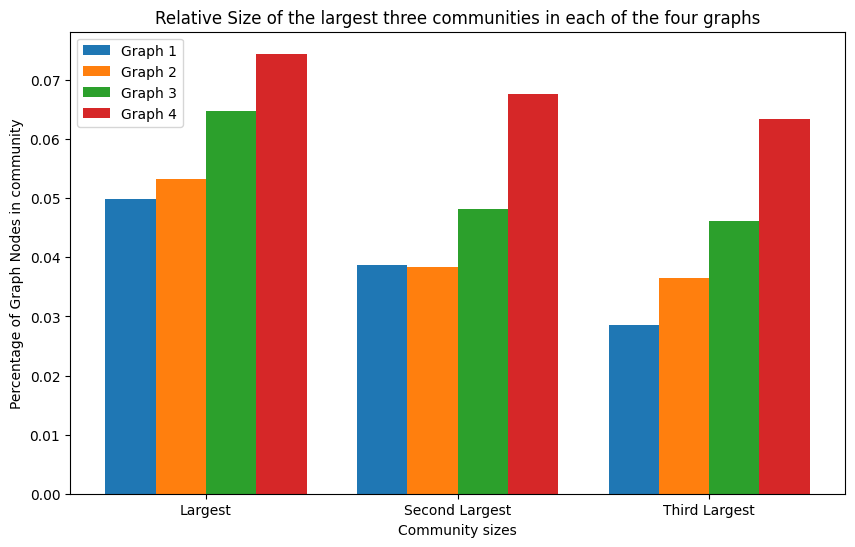
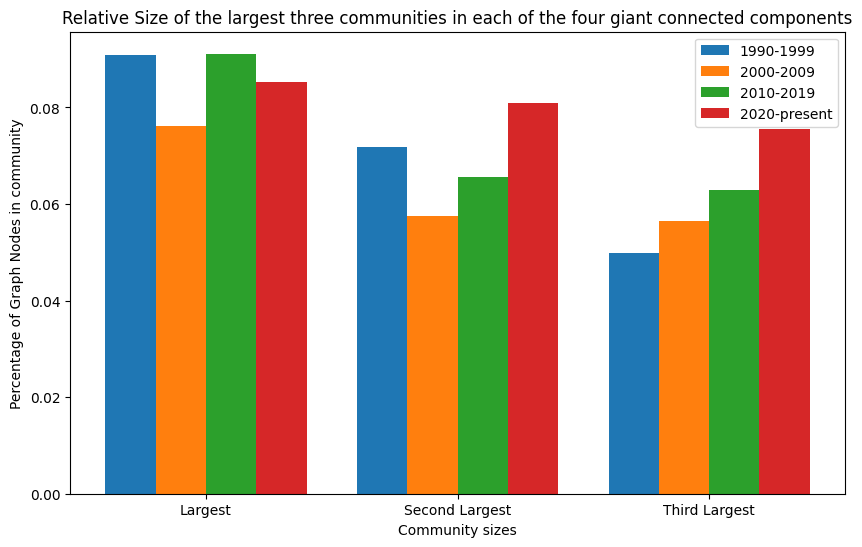
Feat: alt

diff --git a/content/text-analysis.md b/content/text-analysis.md
@@ -3,10 +3,39 @@ title: Text analysis
 prev: network-analysis
 ---
 
-Lorem ipsum dolor sit amet, consectetur adipiscing elit. In nulla tellus, tempus sed lobortis quis, venenatis ac ante. Maecenas accumsan augue ultricies metus hendrerit, in ultrices urna fringilla. Suspendisse lobortis egestas magna, sit amet fermentum ligula tincidunt vitae. Suspendisse cursus non dui a vulputate. Cras vestibulum vulputate enim eu placerat. Ut scelerisque semper justo sit amet auctor. Aliquam sit amet iaculis tortor.
+With the graphs and communities created and analysed, we can move on to analysing the abstracts of each community. We will do this by using the [TF-IDF](https://en.wikipedia.org/wiki/Tf%E2%80%93idf) method to find the most important words in each community. To use this method we need all abstracts needs to be tokenised. The tokenised is based on the NLTK word_tokenizer, which essentially just splits the document based on white space. We can then import a dicitionary of stop words, and define our own filter on characters to further filter the tokens. This way we will get a more indicative list of words used in each abstract. In addition to this, the NLTK english_words corpus is used to filter out words that are not in the english language.
 
-> Nulla in justo hendrerit, tincidunt mauris et, porta est. Donec in leo vitae est ultrices dapibus id nec tortor. Maecenas ut ipsum eu nisl cursus facilisis scelerisque eu ex. Aliquam euismod elementum libero, at vehicula ipsum.
+As mentioned, the analysis is based on the Term Frequency - Inverse Document Frequency approach. Let's recall what the TF-IDF means.
+Term Frequence Inverse Document Frequency, is a way to quantify words' explained variance across documents. Term Frequency is simply how often a term occurs in a document. It 'explains' the weight of the word in term of a document. Inverse Document Frequency is the logarithm to the number of documents the term occurs in, out of all documents. The TF-IDF is the product of the TF and IDF, and has the following form:
 
-Nam commodo lorem quis tortor euismod, ut ultrices orci aliquet. Sed eget dui nec sem ullamcorper convallis id nec ante. Aliquam ultricies a massa quis semper. Donec suscipit augue ut sagittis hendrerit. Aliquam erat volutpat. Proin aliquet maximus nibh, id aliquet justo maximus at. Sed accumsan ante id aliquam pellentesque. Aliquam nec hendrerit quam. Suspendisse maximus eros sollicitudin, accumsan turpis eu, blandit nulla. Nunc lorem elit, molestie at libero gravida, placerat consectetur ante. Sed tincidunt viverra tellus a vehicula.
+$$w_{i,j} = f_{i,j} \times \operatorname{log}\left(\frac{N}{df_i}\right )$$
 
-Lorem ipsum dolor sit amet, consectetur adipiscing elit. Nam blandit lobortis turpis. Praesent porttitor, turpis eu posuere molestie, sem dolor scelerisque sapien, eu aliquet ante felis ac metus. Pellentesque semper ultricies urna. Aenean auctor, turpis ut convallis ultrices, eros tellus bibendum risus, eu varius velit ante et diam. In suscipit lorem orci, eu placerat nibh dignissim ut. Nullam consequat nisl dui, in ornare risus porttitor sed. Integer vitae nibh semper purus ultrices rutrum. Pellentesque non diam ornare, imperdiet elit a, tempus lacus. Suspendisse viverra euismod dapibus.
+where tf is the term frequency of term i in document j, df_i is the number of documents that contain term i, and N is the total number of documents.
+The higher the TF the more weight the word has, but if it occurs in all other documents as well, the logarithm will be 0 and the product 0, and the importance of the word for the document is therefore none. Likewise, if the IDF is high and the TF is high, the word explains much of the variance.
+Therefore, for our analysis we can construct a function that takes a list of ids and gets all the tokens for the ids, and computes the TF-IDF.
+
+With the TF-IDF computed, we can take a look at the top 3 most important words within each top 3 community for each decade. The results are shown below.
+
+| Decade  | Community | Top term 1  |  Top term 2  |  Top term 3  |
+|---------|-----------|-------------|--------------|--------------|
+| 1990-99 | 1         | intelligence| systems      | artificial   |
+| 1990-99 | 2         | chromosome  | gene         | yac          |
+| 1990-99 | 3         | intelligence| children     | students     |
+| 2000-09 | 1         | emotional   | intelligence | ei           |
+| 2000-09 | 2         | artificial  | systems      | intelligence |
+| 2000-09 | 3         | intelligence| cognitive    | iq           |
+| 2010-19 | 1         | ai          | intelligence | artificial   |
+| 2010-19 | 2         | emotional   | intelligence | ei           |
+| 2010-19 | 3         | algorithm   | optimization | abc          |
+| 2020-23 | 1         | ai          | intelligence | artificial   |
+| 2020-23 | 2         | ai          | data         | intelligence |
+| 2020-23 | 3         | covid       | 19           | ai           |
+
+From this we see that there seem to be a clear distinction between what researchers focus on when writing about artificial intelligence. We can pair these results with the wordcloud of the abstracts to get a better understanding of what the researchers are writing about. The wordclouds are shown below.
+
+![wordCloudsForDecades](/images/wordCloudsForDecades.png)
+
+From these wordclouds we see that in the earliest decades there seemed to be a focus on the humane side of AI, mainly seen in the second and third largest communities. Here we see that the second community seems to revolve largely around the biological usage of AI, where the third community focuses on children and students and education. The largest community focuses on the more technical side of AI, with a focus on the mode, agent and system. This community is of interest, as in the next decade we see a new community that seems to focus on the same topics. Community 2 of 2000 focuses on many of the same topics as community 1 of 1990, which could indicate that in 2000 the focus of AI was shifted more towards the social and humanistic side. This is seen in the largest community in 2000 revolving around 'individual', 'relationship', 'emotion' and 'social'. In the third community of 2000 they seem solely focused on the model and testing part of AI.
+In 2010 we see a shift towards the communities being more focused on applied AI, and problem solving with words such as 'problem', 'method', 'solution', 'results'. In this decade there does not seem to be a distringuisable community from the previous decades, but rather a mix of some of them. This shows that the field of AI, atleast in terms of the Artifical Intelligence keyword, is always evolving and the perception and focus is changing.
+
+In the last decade of 2020 there seem to be a general focus on the model and system part, like the other decades. For the largest and second largest community, they seem to have honed in on the application and usefulness part of AI where the third largest community is more focused on Healthcare and especially covid-19. This is not surprising, as the covid-19 pandemic has been a large part of the last year, and therefore it is natural that it is a large part of the research as well.

diff --git a/content/network-analysis.md b/content/network-analysis.md
@@ -64,3 +64,63 @@ We see **not** surprisingly that the community with the least amount of nodes, f
 | Graph 4 | 10947 | 0.79 |
 
 Here we see that the graph for 2020-2024 actually has the lowest modularity, which means it is less dense than the other graphs. Although, this could just be the result of a shorter time period, and we would most likely expect the modularity to land at around 0.89, if we were to include the next 7 years.
+
+Let's visualize the giant components for each of the four 'decades' to better see whats going on. For each century we provide two plots; one where all communities found by the louvain split have been colored, and tone where only the three largest communities found by the louvain split are marked by color. In the code we have only run the analysis for the case where we set the color/group attribute of the nodes for all communities,  but to change this one should simply change the argument "only_paint_top_3 "in "mini_graphalyzer" to be true. 
+
+<div style="display:flex">
+  <figure style="margin:0">
+    <img src="/images/1990_1999.png" style="width:85%">
+    <figcaption style="text-align:center">1990-1999</figcaption>
+  </figure>
+  <figure style="margin:0">
+    <img src="/images/1990_1999_top3.png" style="width:250%">
+    <figcaption style="text-align:center">1990-1999 Largest 3 Communities</figcaption>
+  </figure>
+</div>
+
+<div style="display:flex">
+  <figure style="margin:0">
+    <img src="/images/2000_2009.png" style="width:90%">
+    <figcaption style="text-align:center">2000-2009</figcaption>
+  </figure>
+  <figure style="margin:0">
+    <img src="/images/2000_2009_top3.png" style="width:180%">
+    <figcaption style="text-align:center">2000-2009 Largest 3 Communities</figcaption>
+  </figure>
+</div>
+
+<div style="display:flex">
+  <figure style="margin:0">
+    <img src="/images/2010_2019.png" style="width:100%">
+    <figcaption style="text-align:center">2010-2019</figcaption>
+  </figure>
+  <figure style="margin:0">
+    <img src="/images/2010_2019_top3.png" style="width:100%">
+    <figcaption style="text-align:center">2010-2019 Largest 3 Communities</figcaption>
+  </figure>
+</div>
+
+<div style="display:flex">
+  <figure style="margin:0">
+    <img src="/images/2020_present.png" style="width:100%">
+    <figcaption style="text-align:center">2020-present</figcaption>
+  </figure>
+  <figure style="margin:0">
+    <img src="/images/2020_present_top3.png" style="width:95%">
+    <figcaption style="text-align:center">2020-present Largest 3 Communities</figcaption>
+  </figure>
+</div>
+
+
+om the plots above, we clearly see the community structure as found by the louvain algorithm fitting well together with the high modularity we found. 
+
+As a last thing before we move on to the text analysis, we investigate how the average citation count within the largest 3 communities compares to the average citation count of the entire giant component of their corresponding decade. With this we hope to verify that using the size of the community for choosing relevant communities makes sense.
+
+|     | Average Citation Count  | Average Citation Count in Largest Community  | Average Citation Count in Second Largest Community  | Average Citation Count in Third Largest Community  |
+|---|---|---|---|---|
+| Graph 1 | 107.31 | 201.79 | 74.38 | 140.66 |
+| Graph 2 | 88.66 | 118.83 | 140.37 | 57.21 |
+| Graph 3 | 53.33 | 47.00 | 43.28 | 30.92 |
+| Graph 4 | 16.71 | 15.93 | 21.95 | 12.00 |
+
+We find that the average citation count within the communities match fine with the average citation count within the entire component, even exceeding it in most cases. With this we believe that the choice of using size for choosing communities will work fine in terms of choosing relevant communities.
